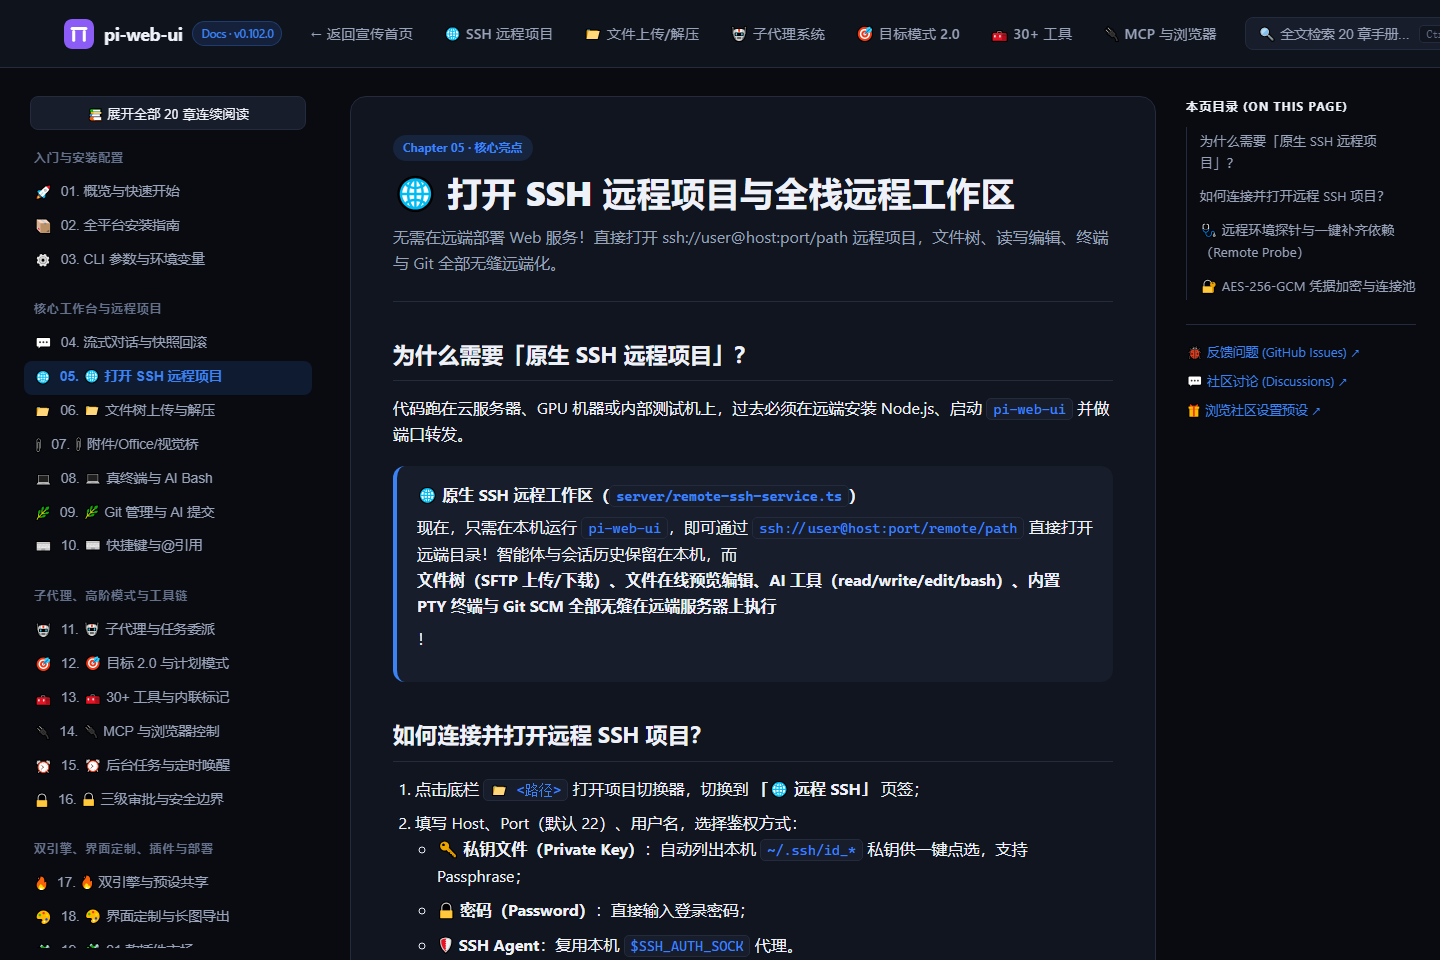
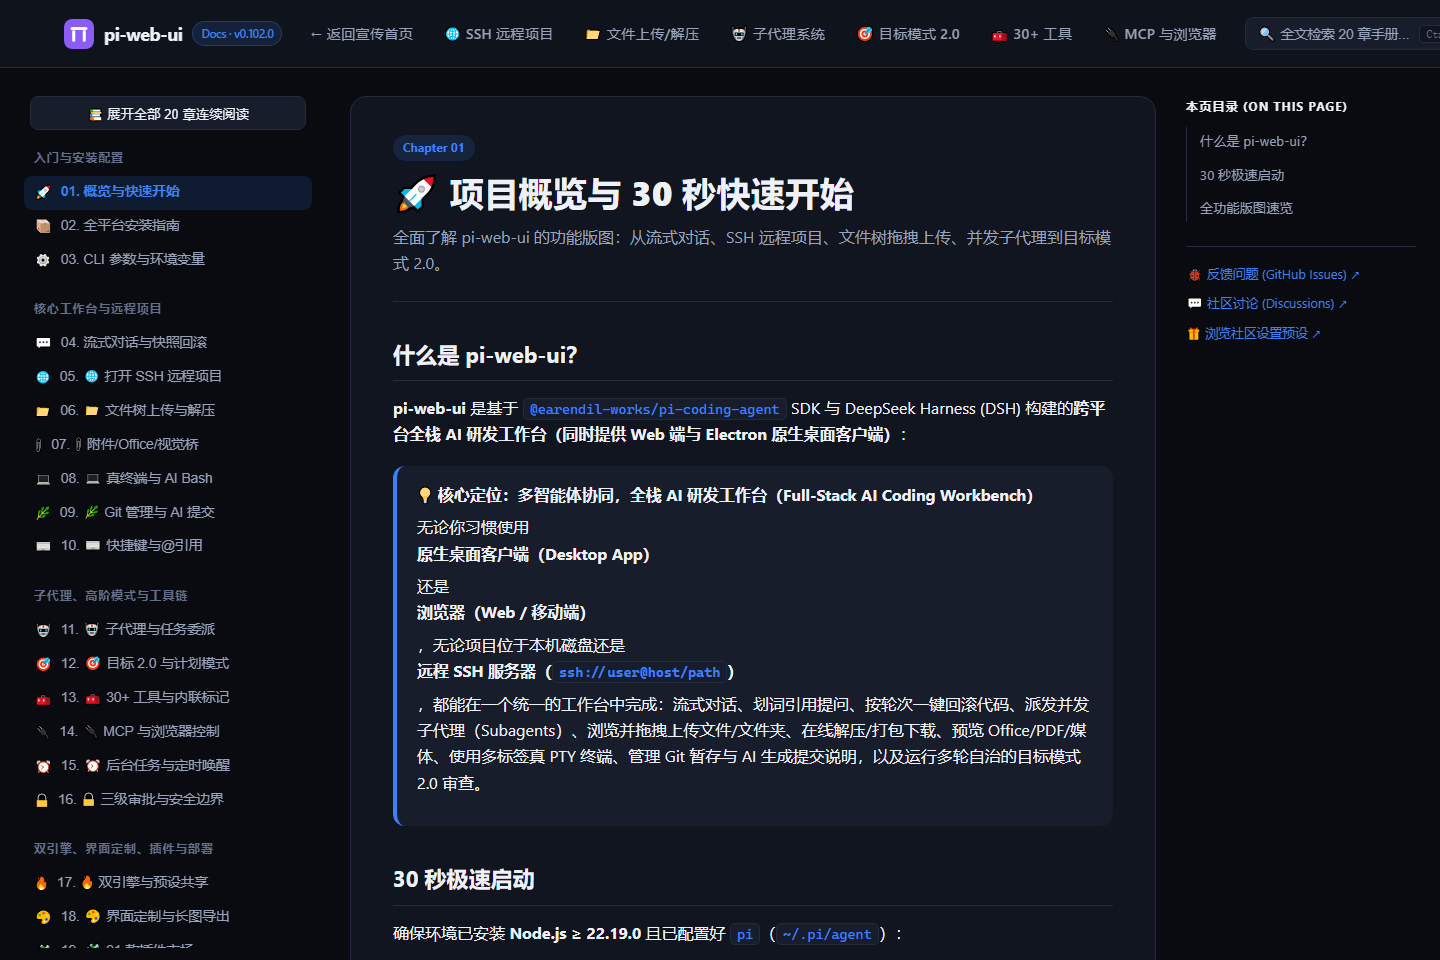
feat(site): update brand slogan to highlight multi-agent workbench across Web & Desktop

diff --git a/index.html b/index.html
@@ -3,8 +3,8 @@
 <head>
 	<meta charset="UTF-8" />
 	<meta name="viewport" content="width=device-width, initial-scale=1.0" />
-	<title>pi-web-ui — 打开浏览器，什么都能干 | AI 编程智能体全栈浏览器工作台</title>
-	<meta name="description" content="pi-web-ui 是 pi 与 DeepSeek Harness (DSH) 编程智能体的全栈浏览器工作台：流式对话、思考块、多根文件树、真 PTY 终端、Git 版本管理、目标模式 2.0、21+ 插件与 29 套主题，尽在一个标签页。" />
+	<title>pi-web-ui — 多智能体协同，全栈 AI 研发工作台 | Web & 桌面端跨平台开发驾驶舱</title>
+	<meta name="description" content="pi-web-ui 是支持 pi 与 DeepSeek Harness (DSH) 双引擎的全栈 AI 编程智能体工作台（提供 Web 端与 Electron 原生桌面端）：集成流式对话、并发子代理、目标模式 2.0、文件树、真 PTY 终端、Git 管理与远程 SSH 工作区。" />
 	<link rel="icon" type="image/svg+xml" href="./assets/favicon.svg" />
 	<link rel="stylesheet" href="./styles.css" />
 </head>
@@ -55,18 +55,18 @@
 			<div class="hero-center">
 				<div class="hero-eyebrow">
 					<span>🚀</span>
-					<span data-i18n-zh="支持 pi SDK 与 DeepSeek Harness (DSH) 双引擎 · Node.js ≥ 22.19" data-i18n-en="Powered by pi SDK & DeepSeek Harness (DSH) Dual Engines · Node.js ≥ 22.19">
-						支持 pi SDK 与 DeepSeek Harness (DSH) 双引擎 · Node.js ≥ 22.19
+					<span data-i18n-zh="Web 网页端 + Electron 桌面端 · pi & DSH 双引擎 · 本机与远程 SSH 全栈协同" data-i18n-en="Web & Electron Desktop · pi & DSH Dual Engines · Local & Remote SSH">
+						Web 网页端 + Electron 桌面端 · pi & DSH 双引擎 · 本机与远程 SSH 全栈协同
 					</span>
 				</div>
 
 				<h1 class="hero-title">
-					<span data-i18n-zh="打开浏览器，" data-i18n-en="Just Open Your Browser — ">打开浏览器，</span>
-					<span class="gradient-text" data-i18n-zh="什么都能干。" data-i18n-en="Get All Your Work Done.">什么都能干。</span>
+					<span data-i18n-zh="多智能体协同，" data-i18n-en="Multi-Agent Orchestration, ">多智能体协同，</span>
+					<span class="gradient-text" data-i18n-zh="全栈 AI 研发工作台。" data-i18n-en="Full-Stack AI Coding Workbench.">全栈 AI 研发工作台。</span>
 				</h1>
 
-				<p class="hero-subtitle" data-i18n-zh="聊天推理、阅读与修改代码、管理多根文件树、运行真 PTY 终端、Git 版本控制、目标模式 2.0 自治审查 —— 全部浓缩在一个浏览器标签页内，无需开 IDE，无需来回切换。" data-i18n-en="Chat, inspect thinking blocks, edit code, browse multi-root file trees, use native PTY terminals, manage Git, and run autonomous Goal Mode 2.0 reviews — all in a single browser tab.">
-					聊天推理、阅读与修改代码、管理多根文件树、运行真 PTY 终端、Git 版本控制、目标模式 2.0 自治审查 —— 全部浓缩在一个浏览器标签页内，无需开 IDE，无需来回切换。
+				<p class="hero-subtitle" data-i18n-zh="集流式对话、并发子代理、目标模式 2.0 自治审查、多根文件树、真 PTY 终端、Git 源代码管理与远程 SSH 项目于一体 —— 无论使用原生桌面客户端还是 Web 界面，一站式掌控从架构规划到代码交付的研发全链路。" data-i18n-en="Uniting streaming chat, parallel subagents, Goal Mode 2.0 review loops, multi-root file trees, native PTY terminals, Git SCM, and Remote SSH projects — across both our native Electron Desktop app and Web interface.">
+					集流式对话、并发子代理、目标模式 2.0 自治审查、多根文件树、真 PTY 终端、Git 源代码管理与远程 SSH 项目于一体 —— 无论使用原生桌面客户端还是 Web 界面，一站式掌控从架构规划到代码交付的研发全链路。
 				</p>
 
 				<div class="hero-cta-row">
@@ -392,7 +392,7 @@ PI_WEB_TOKEN=secret docker compose up -d</code></pre>
 		<div class="container footer-grid">
 			<div>
 				<div style="font-weight:700;color:var(--text);font-size:1rem;margin-bottom:6px;">
-					💬 pi-web-ui · Just open your browser — get all your work done.
+					💬 pi-web-ui · Multi-Agent Orchestration, Full-Stack AI Coding Workbench.
 				</div>
 				<div>
 					MIT License · Created by <a href="https://github.com/xing-shuyin" target="_blank" rel="noreferrer">xingshuyin</a> · QQ 交流群：<code>1126050727</code>

diff --git a/docs-data.js b/docs-data.js
@@ -67,10 +67,10 @@ export const DOCS_CHAPTERS = [
 		summaryEn: "Discover the full landscape of pi-web-ui: streaming chat, Remote SSH workspaces, file tree uploads, parallel subagents, and Goal Mode 2.0.",
 		contentZh: `
 <h2 id="what-is-pi-web-ui">什么是 pi-web-ui？</h2>
-<p><strong>pi-web-ui</strong> 是基于 <code>@earendil-works/pi-coding-agent</code> SDK 与 DeepSeek Harness (DSH) 构建的全栈浏览器端 AI 编程智能体工作台。它的核心设计理念只有一句话：</p>
+<p><strong>pi-web-ui</strong> 是基于 <code>@earendil-works/pi-coding-agent</code> SDK 与 DeepSeek Harness (DSH) 构建的<strong>跨平台全栈 AI 研发工作台（同时提供 Web 端与 Electron 原生桌面客户端）</strong>：</p>
 <div class="doc-callout doc-callout-tip">
-	<strong>💡 核心宗旨：打开浏览器，什么都能干（Just open your browser — get all your work done）</strong>
-	<p>无论项目在本机磁盘还是<strong>远程 SSH 服务器（<code>ssh://user@host/path</code>）</strong>，你只需打开一个浏览器标签页，即可完成：流式对话、划词引用提问、按轮次一键回滚代码、派发并发子代理（Subagents）、浏览并拖拽上传文件/文件夹、在线解压/打包下载、预览 Office/PDF/媒体、使用多标签真 PTY 终端、管理 Git 暂存与 AI 生成提交说明，以及运行多轮自治的目标模式 2.0 审查。</p>
+	<strong>💡 核心定位：多智能体协同，全栈 AI 研发工作台（Full-Stack AI Coding Workbench）</strong>
+	<p>无论你习惯使用<strong>原生桌面客户端（Desktop App）</strong>还是<strong>浏览器（Web / 移动端）</strong>，无论项目位于本机磁盘还是<strong>远程 SSH 服务器（<code>ssh://user@host/path</code>）</strong>，都能在一个统一的工作台中完成：流式对话、划词引用提问、按轮次一键回滚代码、派发并发子代理（Subagents）、浏览并拖拽上传文件/文件夹、在线解压/打包下载、预览 Office/PDF/媒体、使用多标签真 PTY 终端、管理 Git 暂存与 AI 生成提交说明，以及运行多轮自治的目标模式 2.0 审查。</p>
 </div>
 
 <h2 id="thirty-second-quickstart">30 秒极速启动</h2>
@@ -107,7 +107,7 @@ npx pi-web-ui@latest
 `,
 		contentEn: `
 <h2 id="what-is-pi-web-ui">What is pi-web-ui?</h2>
-<p>A full-stack browser cockpit for AI coding agents. Run local code or connect to <strong>Remote SSH servers (<code>ssh://user@host/path</code>)</strong> directly in one tab with streaming chat, selection quotes, turn rollbacks, parallel subagents, drag-drop file/folder uploads, PTY terminals, and Git SCM.</p>
+<p>A cross-platform, full-stack AI coding workbench available as both a <strong>native Electron Desktop app</strong> and a <strong>Web application</strong>. Work on local repositories or connect directly to <strong>Remote SSH servers (<code>ssh://user@host/path</code>)</strong> with streaming chat, selection quotes, turn rollbacks, parallel subagents, drag-drop file/folder uploads, PTY terminals, and Git SCM.</p>
 <pre><code class="language-bash">npm i -g pi-web-ui@latest
 pi-web-ui</code></pre>
 `,

diff --git a/app.js b/app.js
@@ -25,6 +25,11 @@ const INSTALL_COMMANDS = {
 		labelEn: "npx Zero-Install",
 		cmd: "npx pi-web-ui@latest",
 	},
+	desktop: {
+		labelZh: "🖥 Electron 桌面客户端",
+		labelEn: "🖥 Desktop App (Electron)",
+		cmd: "git clone https://github.com/xing-shuyin/pi-web-ui.git && cd pi-web-ui && npm i && npm run build && npm --prefix desktop i && npm --prefix desktop start",
+	},
 	npm12: {
 		labelZh: "npm 12+ 放行原生编译",
 		labelEn: "npm 12+ Native Scripts",
